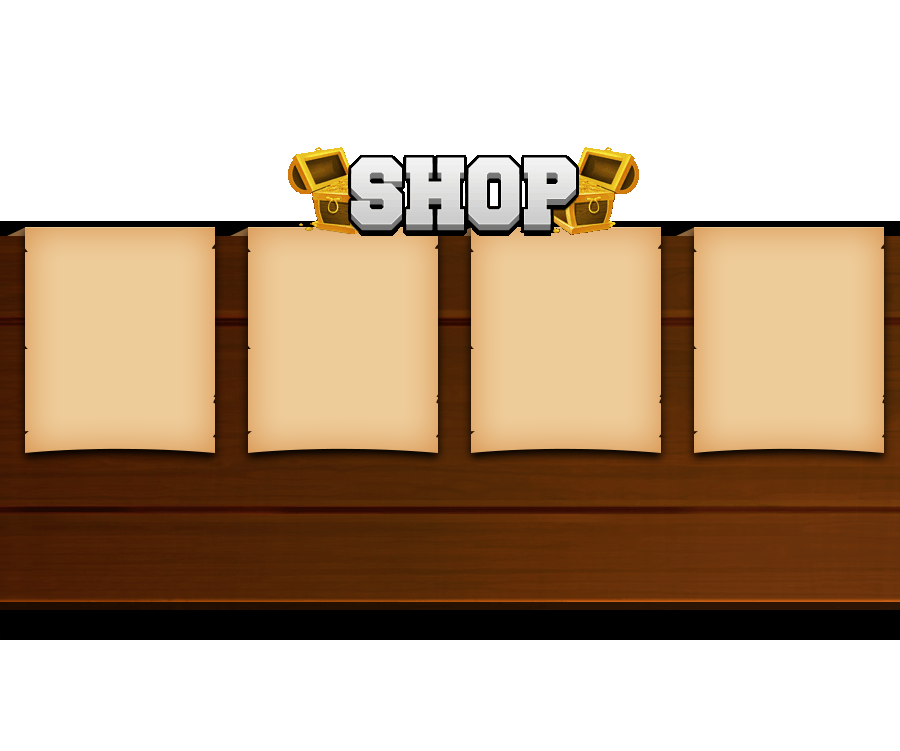
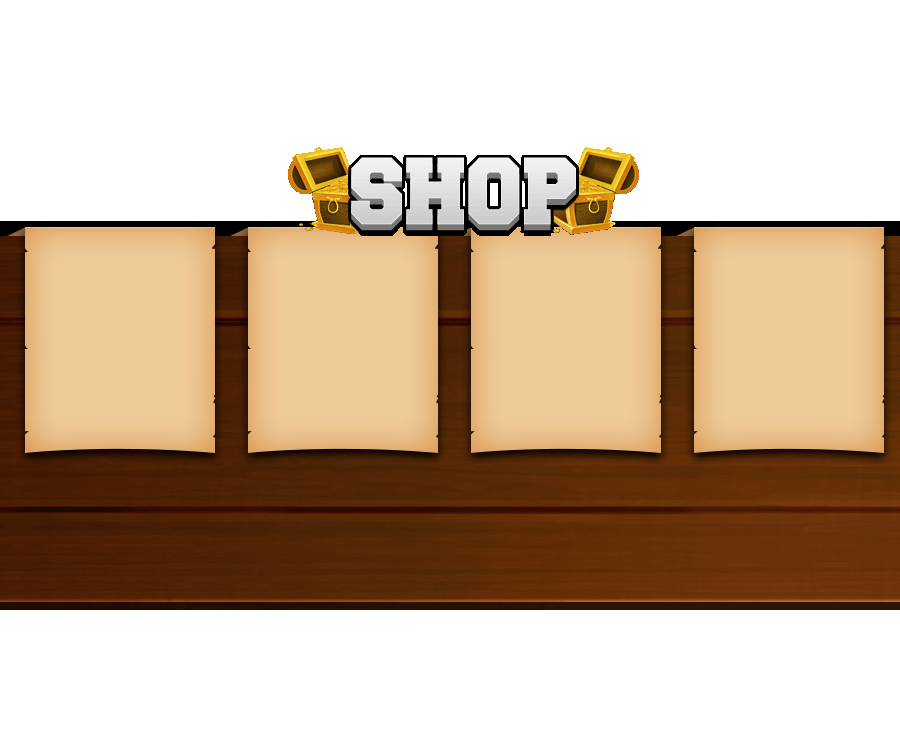
antialiasing stuff

Changed region(s): [[0.0, 0.7963, 1.0, 0.8575]]

diff --git a/core/src/com/jumpbuttonstudios/totemgame/CoinLabel.java b/core/src/com/jumpbuttonstudios/totemgame/CoinLabel.java
@@ -3,6 +3,8 @@ package com.jumpbuttonstudios.totemgame;
 import com.badlogic.gdx.Gdx;
 import com.badlogic.gdx.Input.Buttons;
 import com.badlogic.gdx.graphics.Color;
+import com.badlogic.gdx.graphics.Texture;
+import com.badlogic.gdx.graphics.Texture.TextureFilter;
 import com.badlogic.gdx.graphics.g2d.Batch;
 import com.badlogic.gdx.graphics.g2d.BitmapFont;
 import com.badlogic.gdx.scenes.scene2d.Actor;
@@ -24,13 +26,20 @@ public class CoinLabel extends Actor {
 		LabelStyle labelStyle = new LabelStyle();
 		labelStyle.font = numbers;
 		labelStyle.fontColor = Color.WHITE;
-		labelStyle.background = Icons.getImage("shop/jbscoin.png").getDrawable();
+		Texture bgTex = new Texture(Gdx.files.internal("shop/jbscoin.png"));
+		bgTex.setFilter(TextureFilter.Linear, TextureFilter.Linear);
+		Image background = new Image(bgTex);
+		labelStyle.background = background.getDrawable();
 
 		coins = new Label(" 420", labelStyle);
 		coins.setWidth(Icons.getImage("shop/jbscoin.png").getWidth());
 		coins.setHeight(Icons.getImage("shop/jbscoin.png").getHeight());
+		
+		System.out.println(coins.getWidth());
 
-		coinImage = Icons.getImage("shop/coin.png");
+		Texture coinTex = new Texture(Gdx.files.internal("shop/coin.png"));
+		coinTex.setFilter(TextureFilter.Linear, TextureFilter.Linear);
+		coinImage = new Image(coinTex);
 		coinImage.setScale(1);
 
 		ImageButtonStyle coinButtonStyle = new ImageButtonStyle();
@@ -46,6 +55,7 @@ public class CoinLabel extends Actor {
 
 			}
 		});
+	
 	}
 
 	@Override
@@ -62,7 +72,7 @@ public class CoinLabel extends Actor {
 			}
 		}
 
-		coins.setPosition(getX() + coinImage.getWidth() - 13, getY() + coinImage.getHeight() / 2
+		coins.setPosition(getX() + coinImage.getWidth() - 20, getY() + coinImage.getHeight() / 2
 				- coins.getHeight() / 2 - 3);
 		coinImage.setPosition(getX(), getY());
 		coinButton.setPosition(getX() + coinImage.getWidth() - coinButton.getWidth(), getY());

diff --git a/core/src/com/jumpbuttonstudios/totemgame/GameScreen.java b/core/src/com/jumpbuttonstudios/totemgame/GameScreen.java
@@ -32,7 +32,6 @@ public class GameScreen extends AbstractScreen {
 	public GameScreen(TotemGame game) {
 		super(game);
 		
-//		Twitter twitter = TwitterFactory.getSingleton();
 		
 
 		particleStage = new Stage();
@@ -94,7 +93,9 @@ public class GameScreen extends AbstractScreen {
 		}
 	}
 
+	@Override
 	public void pause() {
+		super.pause();
 		paused = !paused;
 		black.setVisible(paused);
 		black.setPosition(camera.position.x - Constants.SCLWIDTH / 2, camera.position.y

diff --git a/core/src/com/jumpbuttonstudios/totemgame/LoginDialog.java b/core/src/com/jumpbuttonstudios/totemgame/LoginDialog.java
@@ -35,6 +35,8 @@ public class LoginDialog extends Dialog {
 //		font = new BitmapFont(Gdx.files.internal("login/font.fnt")); 
 		Image panel = new Image(new Texture(Gdx.files.internal("login/window.png")));
 
+		font.getData().getGlyph('.').yoffset = -10;
+		
 		Tween.to(panel, 0, 1.0f).target(0, 0).start();
 
 		setBackground(panel.getDrawable());

diff --git a/core/src/com/jumpbuttonstudios/totemgame/HighScoresScreen.java b/core/src/com/jumpbuttonstudios/totemgame/HighScoresScreen.java
@@ -141,6 +141,7 @@ public class HighScoresScreen extends AbstractScreen {
 		}
 
 		BitmapFont font = new BitmapFont(Gdx.files.internal("ui/highscore/font.fnt"));
+//		font.getData().getGlyph('.').yoffset = 30;
 
 		for (int i = 0; i < length; i++) {
 			scrollTable.row();

diff --git a/core/src/com/jumpbuttonstudios/totemgame/CheckNetResponseListener.java b/core/src/com/jumpbuttonstudios/totemgame/CheckNetResponseListener.java
@@ -10,7 +10,7 @@ public class CheckNetResponseListener implements HttpResponseListener {
 	@Override
 	public void handleHttpResponse(HttpResponse httpResponse) {
 		hasInternet = true;
-//		JBSApi.initialize();
+		JBSApi.initialize();
 	}
 
 	@Override
